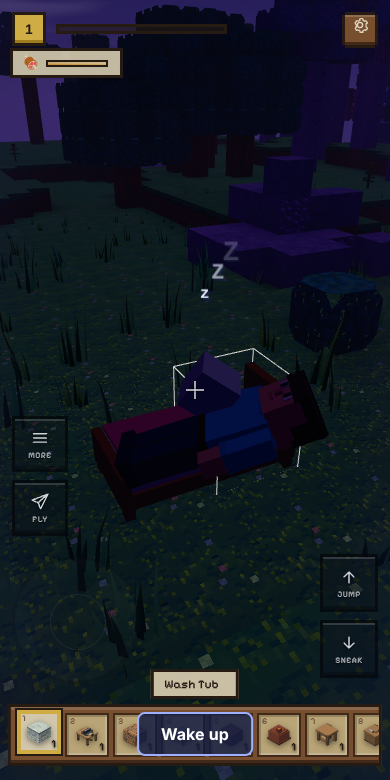
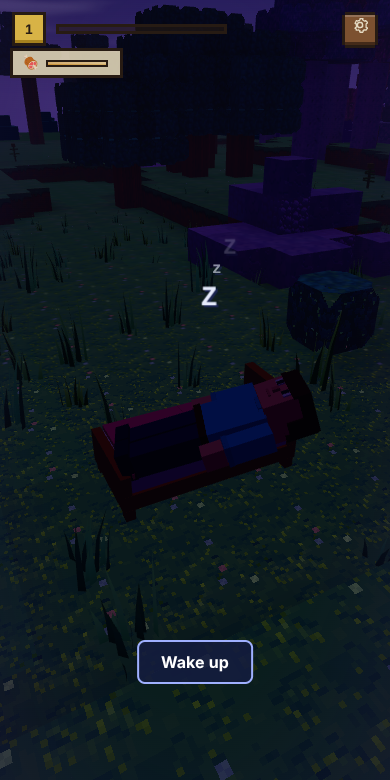
PLAY-8 review: nothing in hand in bed, the HUD steps aside, a closed world ends the sleep
Seen in renders of all four bed facings: the pose was right (on the back,
head on the pillow) but the held block floated over the sleeper, and the
hotbar, crosshair, aim box and touch controls stayed over the picture.
Opening or loading a world mid-sleep left the veil and the sleeping state
behind. The browser test now checks all three.

Claude-Session: https://claude.ai/code/session_01HgGVa7TuDaqakunHmHAQ6k

diff --git a/src/Game.js b/src/Game.js
@@ -1932,6 +1932,7 @@ export class Game {
     const battle = mode === BATTLE;
     if (battle) mode = DUILT;
     this.mode = mode;
+    this.endSleep();
     this.showcase = null;
     this.title = null;
     // Nothing is open for changes in a world you've only just entered.
@@ -2067,6 +2068,7 @@ export class Game {
   }
 
   loadFromData(data, { silent } = {}) {
+    this.endSleep();
     this.world = data.world;
     this.showcase = null;
     this.title = null;
@@ -2434,7 +2436,7 @@ export class Game {
     const held = this.selectedItemId === BARE_HANDS ? {}
       : this.selectedItemId ? { itemId: this.selectedItemId } : { blockId: this.selectedBlockId };
     const third = this.player.view !== 'first';
-    this.avatarView.update(dt, this.player, { look: this.controls.look, worn: this.duilt?.worn ?? {}, held, visible: playing && third, draw: this.drawing ? this.drawPower() : 0, lie: this.sleeping ? { x: this.sleeping.centre.x, y: this.sleeping.centre.y, z: this.sleeping.centre.z, dir: this.sleeping.dir, amount: this.sleeping.lie } : null });
+    this.avatarView.update(dt, this.player, { look: this.controls.look, worn: this.duilt?.worn ?? {}, held: this.sleeping ? {} : held, visible: playing && third, draw: this.drawing ? this.drawPower() : 0, lie: this.sleeping ? { x: this.sleeping.centre.x, y: this.sleeping.centre.y, z: this.sleeping.centre.z, dir: this.sleeping.dir, amount: this.sleeping.lie } : null });
     this.handView.update(dt, this.player, { look: this.controls.look, held, visible: playing && !third && !this.manning, draw: this.drawing ? this.drawPower() : 0, offhand: this.duilt?.worn?.offhand?.id ?? null });
     // The flying machine went with it: you come down on its wings.
     if (this.player.flying && !this.player.canFly()) {
@@ -7657,6 +7659,10 @@ export class Game {
     p.pitch = -0.42;
     p.syncCamera();
     this.sleeping.veil.hidden = false;
+    // The HUD steps aside while you sleep (review of PLAY-8): no hotbar,
+    // crosshair, aim box or touch controls over the picture of you in bed.
+    document.body.classList.add('is-sleeping');
+    if (this.hoverBox) this.hoverBox.visible = false;
     this.editedAt = Date.now();
     return true;
   }
@@ -7695,6 +7701,18 @@ export class Game {
     if (r.done) this.wake(true);
   }
 
+  /** A sleep cut off by the world closing: put the HUD back, without a toast or a move. */
+  endSleep() {
+    const s = this.sleeping;
+    if (!s) return;
+    this.sleeping = null;
+    this.player.view = s.view;
+    this.player.viewReach = s.viewReach;
+    s.shade.style.opacity = '0';
+    s.veil.hidden = true;
+    document.body.classList.remove('is-sleeping');
+  }
+
   /** Up, beside the bed: at the end of the night, or early (the clock stays where it got to). */
   wake(finished = false) {
     const s = this.sleeping;
@@ -7706,6 +7724,7 @@ export class Game {
     p.teleport(s.stand.x, s.stand.y, s.stand.z);
     s.shade.style.opacity = '0';
     s.veil.hidden = true;
+    document.body.classList.remove('is-sleeping');
     if (finished) this.dayCycle.time = s.target;
     this.duilt.dayTime = this.dayCycle.time;
     this.editedAt = Date.now();
@@ -9036,7 +9055,7 @@ export class Game {
     // The single block under the crosshair, except while a roof is queued —
     // there the whole building is highlighted and one more box on top of it is
     // just noise.
-    if (hit && !this.pendingRoof && !this.pendingClear) {
+    if (hit && !this.pendingRoof && !this.pendingClear && !this.sleeping) {
       this.hoverBox.visible = true;
       this.hoverBox.position.set(hit.x + 0.5, hit.y + 0.5, hit.z + 0.5);
     } else {

diff --git a/src/ui/styles.css b/src/ui/styles.css
@@ -2395,3 +2395,6 @@ button.busy { cursor: progress; opacity: 0.92; }
 @keyframes sleep-z { 0% { opacity: 0; transform: translate(0, 0); } 15% { opacity: 1; } 100% { opacity: 0; transform: translate(34px, -70px); } }
 #sleep-overlay .sleep-wake { position: absolute; left: 50%; bottom: calc(96px + env(safe-area-inset-bottom)); transform: translateX(-50%); pointer-events: auto; min-height: 44px; padding: 10px 22px; font: inherit; font-weight: 700; color: #fff; background: rgba(20, 28, 64, 0.85); border: 2px solid #9fb0ff; border-radius: 8px; cursor: pointer; }
 @media (prefers-reduced-motion: reduce) { #sleep-overlay .sleep-zs span { animation: none; opacity: 0.9; } #sleep-overlay .sleep-zs span:nth-child(2) { transform: translate(18px, -26px); } #sleep-overlay .sleep-zs span:nth-child(3) { transform: translate(34px, -50px); } }
+/* Asleep (PLAY-8 review): only the sky, the bed, the Zs and Wake up. */
+body.is-sleeping #crosshair, body.is-sleeping #hotbar-wrap, body.is-sleeping #touch-controls,
+body.is-sleeping #building-hint { visibility: hidden; }
